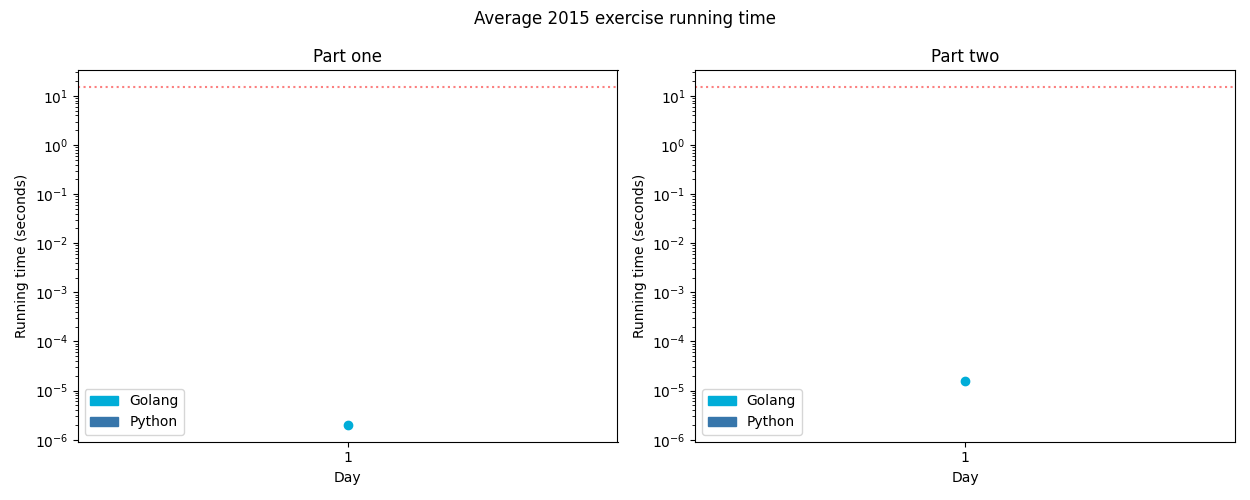
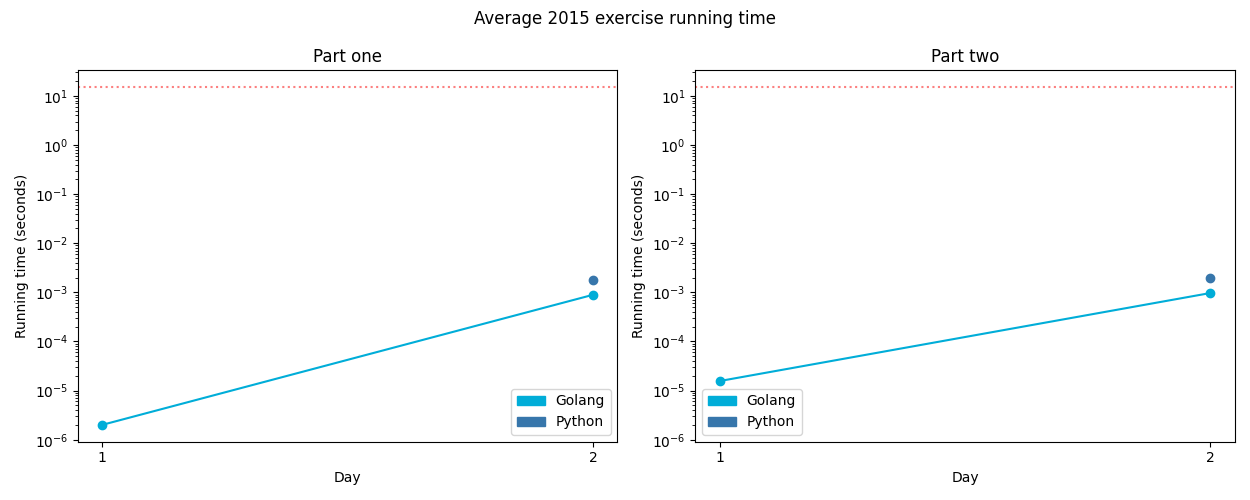
chore: Add meta-data for aoc15-2

diff --git a/exercises/2015/README.md b/exercises/2015/README.md
@@ -4,34 +4,41 @@
 
 <!-- ★ ☆ -->
 
-| Exercise                                           | Stars | Solutions                |
-|----------------------------------------------------|:-----:|--------------------------|
-| [Day 1: Not Quite Lisp](01-notQuiteLisp/README.md) |  ★ ★  | [Go](01-notQuiteLisp/go) |
-| 2                                                  |  ☆ ☆  |                          |
-| 3                                                  |  ☆ ☆  |                          |
-| 4                                                  |  ☆ ☆  |                          |
-| 5                                                  |  ☆ ☆  |                          |
-| 6                                                  |  ☆ ☆  |                          |
-| 7                                                  |  ☆ ☆  |                          |
-| 8                                                  |  ☆ ☆  |                          |
-| 9                                                  |  ☆ ☆  |                          |
-| 10                                                 |  ☆ ☆  |                          |
-| 11                                                 |  ☆ ☆  |                          |
-| 12                                                 |  ☆ ☆  |                          |
-| 13                                                 |  ☆ ☆  |                          |
-| 14                                                 |  ☆ ☆  |                          |
-| 15                                                 |  ☆ ☆  |                          |
-| 16                                                 |  ☆ ☆  |                          |
-| 17                                                 |  ☆ ☆  |                          |
-| 18                                                 |  ☆ ☆  |                          |
-| 19                                                 |  ☆ ☆  |                          |
-| 20                                                 |  ☆ ☆  |                          |
-| 21                                                 |  ☆ ☆  |                          |
-| 22                                                 |  ☆ ☆  |                          |
-| 23                                                 |  ☆ ☆  |                          |
-| 24                                                 |  ☆ ☆  |                          |
-| 25                                                 |  ★ ☆  |                          |
+| Exercise                                        | Stars | Solutions              |
+|-------------------------------------------------|:-----:|------------------------|
+| [Day 1: Not Quite Lisp][rm1]                    |  ★ ★  | [Go][g1], [Python][p1] |
+| [Day 2: I Was Told There Would Be No Math][rm2] |  ★ ★  | [Go][g2], [Python][p2] |
+| 3                                               |  ☆ ☆  |                        |
+| 4                                               |  ☆ ☆  |                        |
+| 5                                               |  ☆ ☆  |                        |
+| 6                                               |  ☆ ☆  |                        |
+| 7                                               |  ☆ ☆  |                        |
+| 8                                               |  ☆ ☆  |                        |
+| 9                                               |  ☆ ☆  |                        |
+| 10                                              |  ☆ ☆  |                        |
+| 11                                              |  ☆ ☆  |                        |
+| 12                                              |  ☆ ☆  |                        |
+| 13                                              |  ☆ ☆  |                        |
+| 14                                              |  ☆ ☆  |                        |
+| 15                                              |  ☆ ☆  |                        |
+| 16                                              |  ☆ ☆  |                        |
+| 17                                              |  ☆ ☆  |                        |
+| 18                                              |  ☆ ☆  |                        |
+| 19                                              |  ☆ ☆  |                        |
+| 20                                              |  ☆ ☆  |                        |
+| 21                                              |  ☆ ☆  |                        |
+| 22                                              |  ☆ ☆  |                        |
+| 23                                              |  ☆ ☆  |                        |
+| 24                                              |  ☆ ☆  |                        |
+| 25                                              |  ★ ☆  |                        |
 
 ## 2015 Run Times
 
 ![2015 exercise run-time graphs](run-times.png)
+
+[rm1]: 01-notQuiteLisp/README.md
+[g1]: 01-notQuiteLisp/go
+[p1]: 01-notQuiteLisp/py
+[rm2]: 02-iWasToldThereWouldBeNoMath/README.md
+[g2]: 02-iWasToldThereWouldBeNoMath/go
+[p2]: 02-iWasToldThereWouldBeNoMath/py

diff --git a/exercises/2015/02-iWasToldThereWouldBeNoMath/README.md b/exercises/2015/02-iWasToldThereWouldBeNoMath/README.md
@@ -15,13 +15,31 @@
 ## Go
 
 ```text
-    < section intentionally left blank >
+2015-2 I Was Told There Would Be No Math (Golang)
+
+Running...
+
+Test 1.0: pass in 14.6 µs
+Test 1.1: pass in 20.2 µs
+Test 2.0: pass in 6.2 µs
+Test 2.1: pass in 6.3 µs
+Part 1: 1598415 in 821.8 µs
+Part 2: 3812909 in 787.9 µs
 ```
 
 ## Python
 
 ```text
-    < section intentionally left blank >
+2015-2 I Was Told There Would Be No Math (Python)
+
+Running...
+
+Test 1.0: pass in 23.6 µs
+Test 1.1: pass in 10.2 µs
+Test 2.0: pass in 15.2 µs
+Test 2.1: pass in 12.1 µs
+Part 1: 1598415 in 1.1 ms
+Part 2: 3812909 in 1 ms
 ```
 
 ## 2015 Run Times
